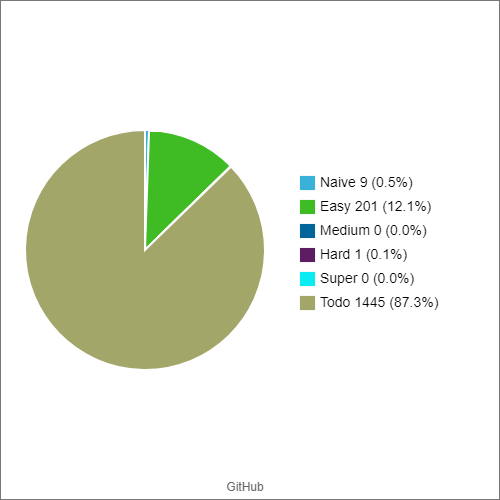
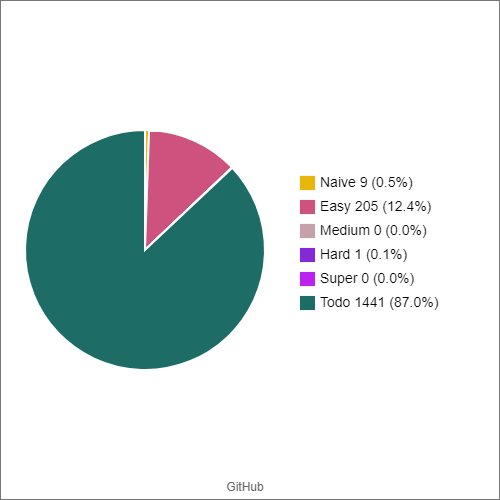
2020.8.11

diff --git a/Easy/Easy983. Baseball Game.cpp b/Easy/Easy983. Baseball Game.cpp
@@ -1,0 +1,83 @@
+/*
+
+requriements
+
+983. Baseball Game
+You're now a baseball game point recorder.
+
+Given a list of strings, each string can be one of the 4 following types:
+
+Integer (one round's score): Directly represents the number of points you get in this round.
+"+" (one round's score): Represents that the points you get in this round are the sum of the last two valid round's points.
+"D" (one round's score): Represents that the points you get in this round are the doubled data of the last valid round's points.
+"C" (an operation, which isn't a round's score): Represents the last valid round's points you get were invalid and should be removed.
+Each round's operation is permanent and could have an impact on the round before and the round after.
+You need to return the sum of the points you could get in all the rounds.
+
+Example
+Example1:
+
+Input: ["5","2","C","D","+"]
+Output: 30
+Explanation: 
+Round 1: You could get 5 points. The sum is: 5.
+Round 2: You could get 2 points. The sum is: 7.
+Operation 1: The round 2's data was invalid. The sum is: 5.  
+Round 3: You could get 10 points (the round 2's data has been removed). The sum is: 15.
+Round 4: You could get 5 + 10 = 15 points. The sum is: 30.
+Example2:
+
+Input: ["5","-2","4","C","D","9","+","+"]
+Output: 27
+Explanation: 
+Round 1: You could get 5 points. The sum is: 5.
+Round 2: You could get -2 points. The sum is: 3.
+Round 3: You could get 4 points. The sum is: 7.
+Operation 1: The round 3's data is invalid. The sum is: 3.  
+Round 4: You could get -4 points (the round 3's data has been removed). The sum is: -1.
+Round 5: You could get 9 points. The sum is: 8.
+Round 6: You could get -4 + 9 = 5 points. The sum is 13.
+Round 7: You could get 9 + 5 = 14 points. The sum is 27.
+Notice
+The size of the input list will be between 1 and 1000.
+Every integer represented in the list will be between -30000 and 30000.
+
+*/
+
+class Solution {
+public:
+    /**
+     * @param ops: the list of operations
+     * @return:  the sum of the points you could get in all the rounds
+     */
+    int calPoints(vector<string> &ops) {
+        // Write your code here
+        int scores = 0;
+        deque<int> q;
+        for (size_t i = 0; i < ops.size(); ++i)
+        {
+            if (ops[i] == "C")
+            {
+                scores -= q.back();
+                q.pop_back();
+            }
+            else if (ops[i] == "D")
+            {
+                q.push_back(2 * q.back());
+                scores += q.back();
+            }
+            else if (ops[i] == "+")
+            {
+                int tmp = q.size();
+                q.push_back(q[tmp - 1] + q[tmp - 2]);
+                scores += q.back();
+            }
+            else
+            {
+                q.push_back(stoi(ops[i]));
+                scores += q.back();
+            }
+        }
+        return scores;
+    }
+};

diff --git a/Easy/Easy1028. Rotated Digits.cpp b/Easy/Easy1028. Rotated Digits.cpp
@@ -1,0 +1,81 @@
+/*
+
+requirements
+
+1028. Rotated Digits
+X is a good number if after rotating each digit individually by 180 degrees, we get a valid number that is different from X. Each digit must be rotated - we cannot choose to leave it alone.
+
+A number is valid if each digit remains a digit after rotation. 0, 1, and 8 rotate to themselves; 2 and 5 rotate to each other; 6 and 9 rotate to each other, and the rest of the numbers do not rotate to any other number and become invalid.
+
+Now given a positive number N, how many numbers X from 1 to N are good?
+
+Example
+Example 1:
+
+Input: 10
+Output: 4
+Explanation: 
+There are four good numbers in the range [1, 10] : 2, 5, 6, 9.
+Note that 1 and 10 are not good numbers, since they remain unchanged after rotating.
+Example 2:
+
+Input: 5
+Output: 2
+Explanation: 
+There are two good numbers in the range [1, 5] : 2, 5.
+Notice
+N will be in range [1, 10000].
+
+*/
+
+class Solution {
+public:
+    /**
+     * @param N: a positive number
+     * @return: how many numbers X from 1 to N are good
+     */
+    int rotatedDigits(int N) {
+        int res = 0;
+        for (int i = 1; i <= N; ++i)
+        {
+            if (check(i))
+            ++res;
+        }
+        return res;
+    }
+    bool check(int k)
+    {
+        string str = to_string(k);
+        bool flag = false;
+        for (char c : str)
+        {
+            if (c == '3' || c == '4' || c == '7')
+                return false;
+            if (c == '2' || c == '5' || c == '6' || c == '9')
+                flag = true;
+        }
+        return flag;
+    }
+    // better Solution--Dynamic Planning
+    /*
+    int rotatedDigits(int N) {
+        int res = 0;
+        vector<int> dp(N + 1);   
+        for (int i = 0; i <= N; ++i) {
+            if (i < 10) {
+                if (i == 0 || i == 1 || i == 8) dp[i] = 1;
+                else if (i == 2 || i == 5 || i == 6 || i == 9) {
+                    dp[i] = 2; ++res;
+                }
+            } else {
+                int a = dp[i / 10], b = dp[i % 10];
+                if (a == 1 && b == 1) dp[i] = 1;
+                else if (a >= 1 && b >= 1) {
+                    dp[i] = 2; ++res;
+                }
+            }
+        }
+        return res;
+    }
+    */
+};

diff --git a/Easy/Easy1333. Reverse Bits.cpp b/Easy/Easy1333. Reverse Bits.cpp
@@ -1,0 +1,47 @@
+/*
+
+requirements
+
+1333. Reverse Bits
+Reverse bits of a given 32 bits unsigned integer.
+
+Example
+Example 1:
+
+Input: 00000010100101000001111010011100
+Output: 00111001011110000010100101000000
+Explanation: 
+The input binary string 00000010100101000001111010011100 represents the unsigned integer 43261596
+so return 964176192 which its binary representation is 00111001011110000010100101000000.
+Example 2:
+
+Input: 11111111111111111111111111111101
+Output: 10111111111111111111111111111111
+Explanation: 
+The input binary string 11111111111111111111111111111101 represents the unsigned integer 4294967293
+so return 3221225471 which its binary representation is 10101111110010110010011101101001.
+Notice
+Note that in some languages such as Java, there is no unsigned integer type. In this case, both input and output will be given as signed integer type and should not affect your implementation, as the internal binary representation of the integer is the same whether it is signed or unsigned.
+In Java, the compiler represents the signed integers using 2's complement notation. Therefore, in Example 2 above the input represents the signed integer -3 and the output represents the signed integer -1073741825.
+
+*/
+
+class Solution {
+public:
+    /**
+     * @param n: an integer
+     * @return: return an integer
+     */
+    long long reverseBits(long long n) {
+        // write your code here
+        long long res = 0;
+        int i = 32;
+        while(i--)
+        {
+            res <<= 1;
+            res += n & 1;
+            n >>= 1;
+        }
+        return res;
+    }
+};

diff --git a/Easy/Easy769. Spiral Array.cpp b/Easy/Easy769. Spiral Array.cpp
@@ -1,0 +1,62 @@
+/*
+
+requirements
+
+769. Spiral Array
+Given an integer n, return a spiral array of n * n sizes.
+
+Example
+Example 1:
+
+Input : n = 3
+Output : 
+[
+[1,2,3]
+[8,9,4]
+[7,6,5]
+]
+Example 2:
+
+Input : n = 5
+Output : 
+[
+ [1,2,3,4,5]
+ [16,17,18,19,6]
+ [15,24,25,20,7]
+ [14,23,22,21,8]
+ [13,12,11,10,9]
+]
+*/
+
+class Solution {
+public:
+    /**
+     * @param n: a Integer
+     * @return: a spiral array
+     */
+    vector<vector<int>> spiralArray(int n)
+    {
+        // write your code here
+        vector<vector<int>> res(n, vector<int>(n, -1));
+        int count = 0;
+        int total = n * n;
+        int dr = 0, dc = 1;
+        int r = 0, c = -1;
+        while (count < n * n)
+        {
+            int nr = r + dr;
+            int nc = c + dc;
+            if (nr < 0 || nr >= n ||
+                nc < 0 || nc >= n || res[nr][nc] != -1)
+            {
+                int temp = dc;
+                dc = -dr;
+                dr = temp;
+            }
+            r = r + dr;
+            c = c + dc;
+            res[r][c] = ++count;
+        }
+        return res;
+    }
+};
